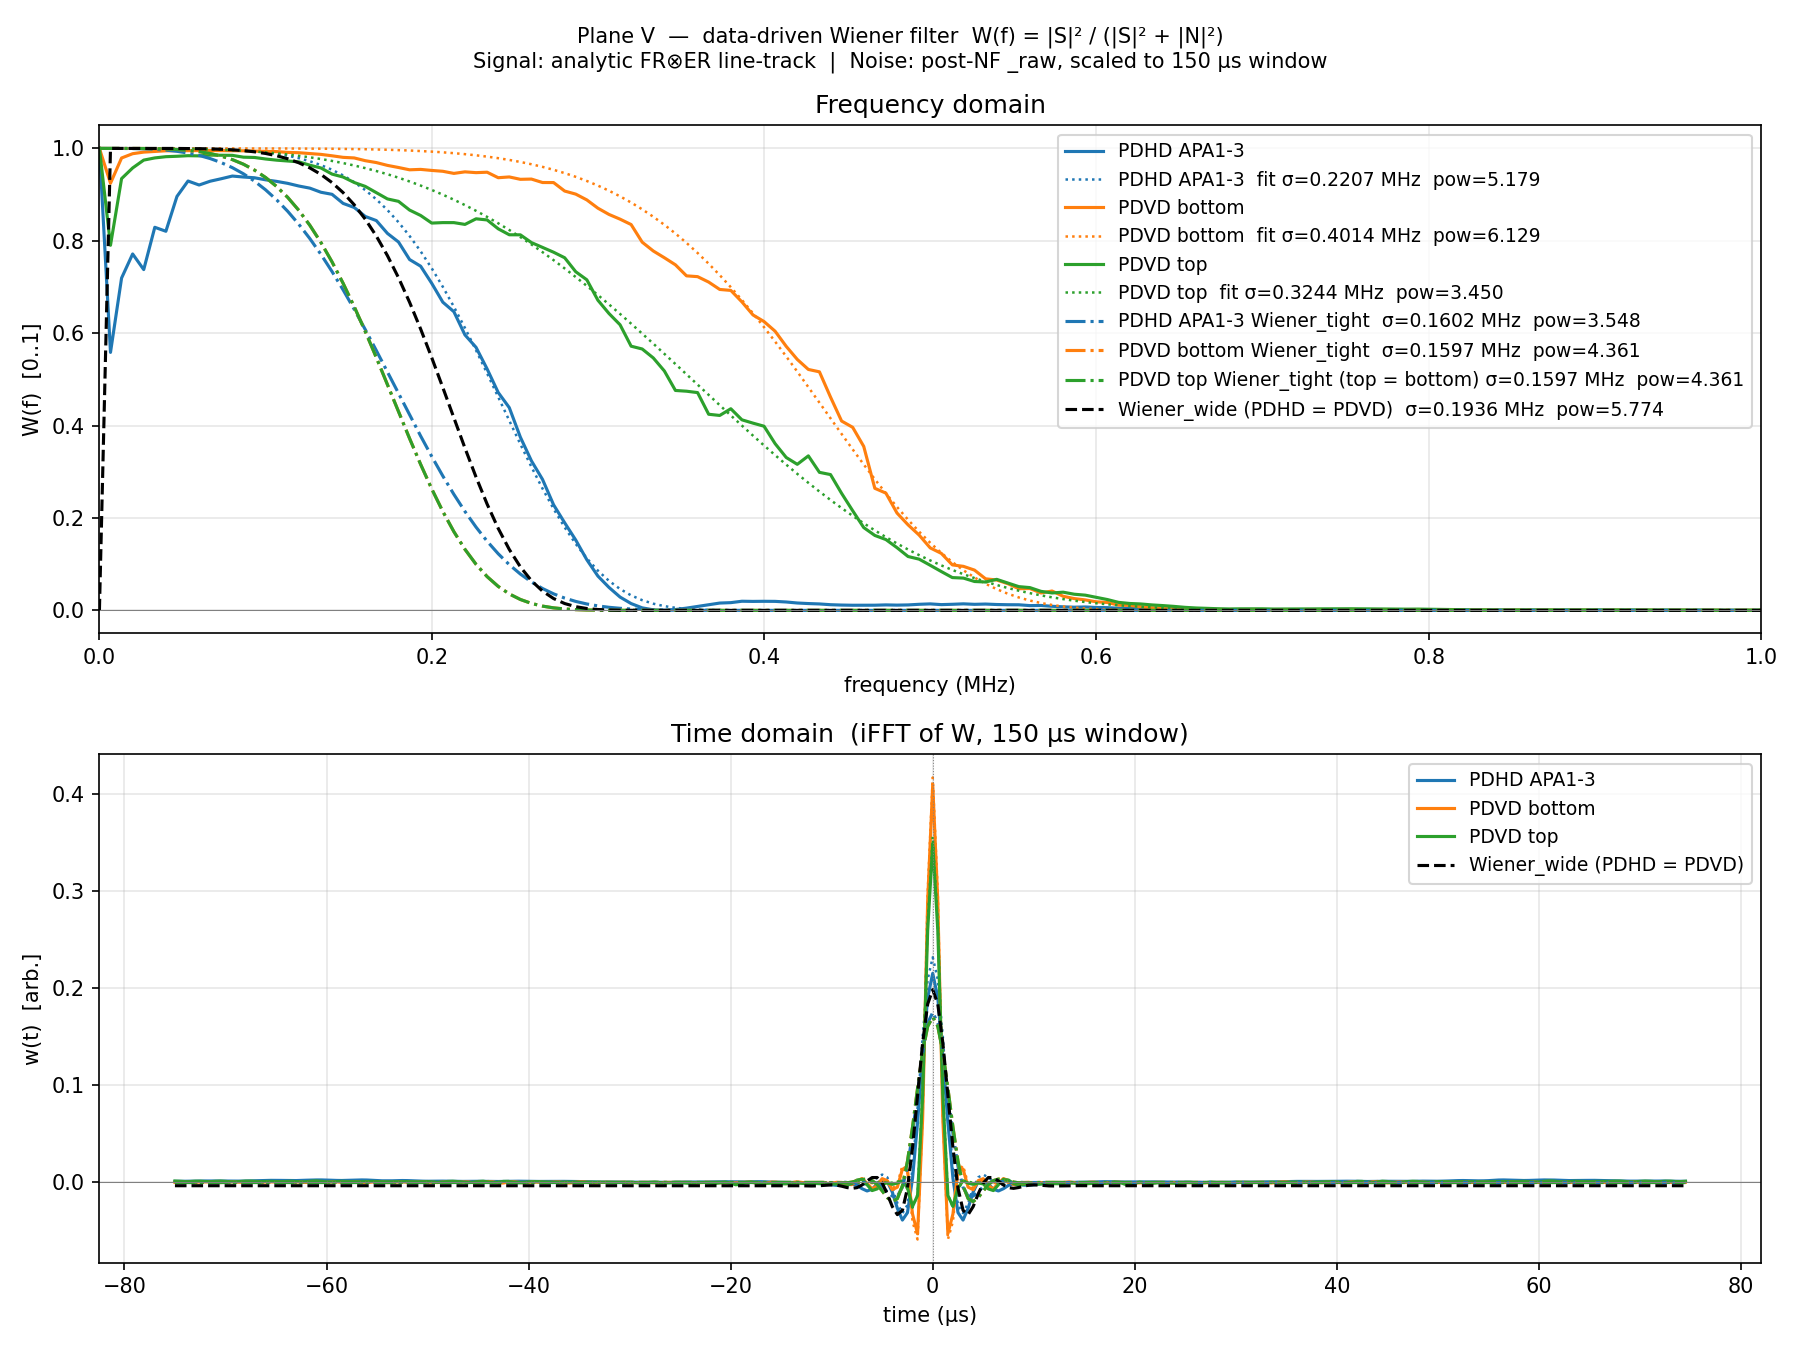
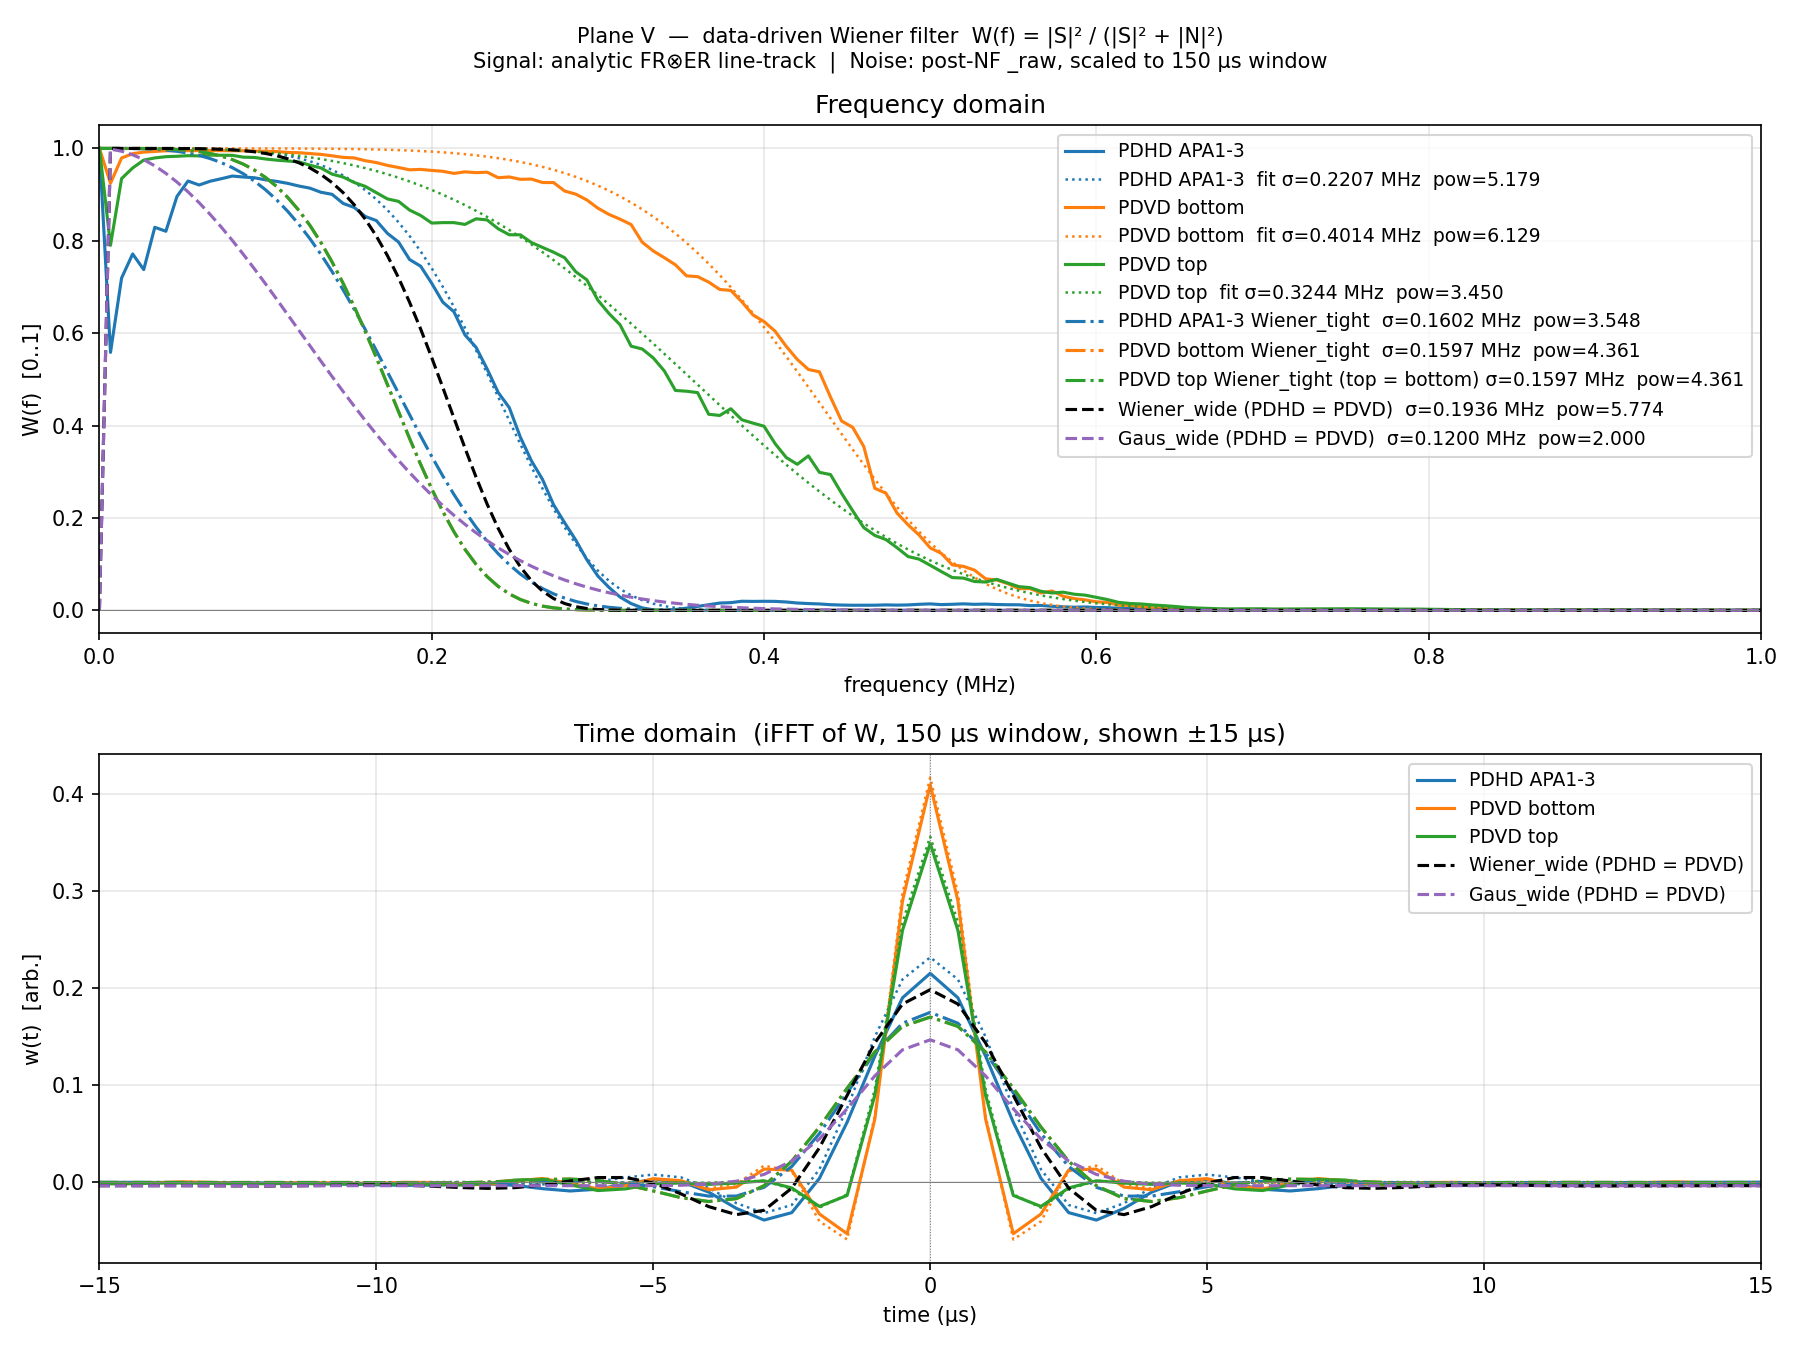
sp_plot/wiener_filter: add Gaus_wide overlay, shrink time-domain to ±15 µs
Add purple-dashed Gaus_wide (σ=0.12 MHz, power=2, shared PDHD=PDVD)
to both frequency and time panels.  Restrict time-domain x-axis to
±15 µs so the filter kernel structure is clearly visible.

diff --git a/pdvd/sp_plot/wiener_filter_construct.py b/pdvd/sp_plot/wiener_filter_construct.py
@@ -84,6 +84,10 @@ NOISE_ROOT = {
 # Only the three detectors we have noise for (no uBooNE).
 DETECTORS = [d for d in TR_DETECTORS if d['label'] in NOISE_ROOT]
 
+# Gaussian_wide parameters (from sp-filters.jsonnet): σ=0.12 MHz, power=2.
+# Identical for PDHD (Gaus_wide) and PDVD (Gaus_wide_b/t); flag=True (zero DC).
+GAUSS_WIDE = {'sigma': 0.12, 'power': 2.0}
+
 # PDHD Wiener_wide parameters per plane (from pdhd/sp-filters.jsonnet lines 70-81).
 # Note: PDVD and PDHD share the same wide-Wiener σ/power — the overlay
 # is labelled "Wiener_wide (PDHD = PDVD)" to reflect this.
@@ -117,6 +121,13 @@ def wiener_wide_analytic(f_mhz, plane_id):
     """Analytic PDHD/PDVD Wiener_wide filter on the given frequency grid."""
     p = WIENER_WIDE[plane_id]
     H = np.exp(-0.5 * (f_mhz / p['sigma']) ** p['power'])
+    H[0] = 0.0   # flag=True: zero DC bin
+    return H
+
+
+def gauss_wide_analytic(f_mhz):
+    """Analytic Gaus_wide filter (shared PDHD = PDVD) on the given frequency grid."""
+    H = np.exp(-0.5 * (f_mhz / GAUSS_WIDE['sigma']) ** GAUSS_WIDE['power'])
     H[0] = 0.0   # flag=True: zero DC bin
     return H
 
@@ -325,6 +336,15 @@ def make_plot(plane_label, plane_id, results, outpath):
     axes[0].plot(f_ref,   H_wide,   color='k', lw=1.5, ls='--', label=wide_lbl)
     axes[1].plot(t_ref,   h_wide_t, color='k', lw=1.5, ls='--', label='Wiener_wide (PDHD = PDVD)')
 
+    # Overlay Gaus_wide (identical for PDHD and PDVD — single line).
+    H_gauss   = gauss_wide_analytic(f_ref)
+    h_gauss_t = np.fft.fftshift(np.fft.irfft(H_gauss, n=N_SHORT))
+    gauss_lbl = (f'Gaus_wide (PDHD = PDVD)  '
+                 f'σ={GAUSS_WIDE["sigma"]:.4f} MHz  pow={GAUSS_WIDE["power"]:.3f}')
+    axes[0].plot(f_ref,   H_gauss,   color='tab:purple', lw=1.5, ls='--', label=gauss_lbl)
+    axes[1].plot(t_ref,   h_gauss_t, color='tab:purple', lw=1.5, ls='--',
+                 label='Gaus_wide (PDHD = PDVD)')
+
     axes[0].set_xlabel('frequency (MHz)')
     axes[0].set_ylabel('W(f)  [0..1]')
     axes[0].set_title('Frequency domain')
@@ -336,7 +356,8 @@ def make_plot(plane_label, plane_id, results, outpath):
 
     axes[1].set_xlabel('time (µs)')
     axes[1].set_ylabel('w(t)  [arb.]')
-    axes[1].set_title(f'Time domain  (iFFT of W, {T_WIN_US:.0f} µs window)')
+    axes[1].set_title(f'Time domain  (iFFT of W, {T_WIN_US:.0f} µs window, shown ±15 µs)')
+    axes[1].set_xlim(-15, 15)
     axes[1].axhline(0, color='gray', lw=0.5)
     axes[1].axvline(0, color='gray', lw=0.5, ls=':')
     axes[1].grid(True, alpha=0.3)
